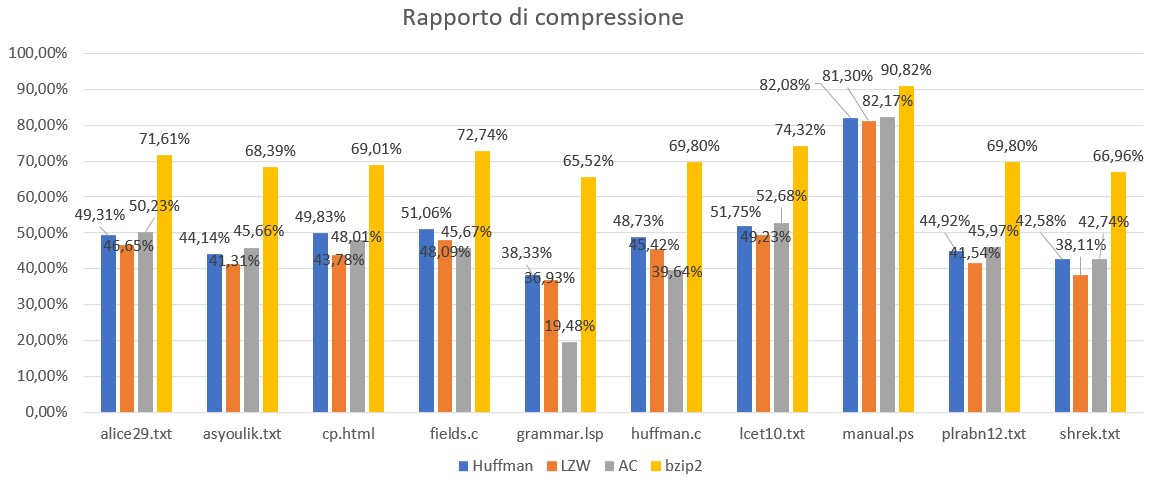
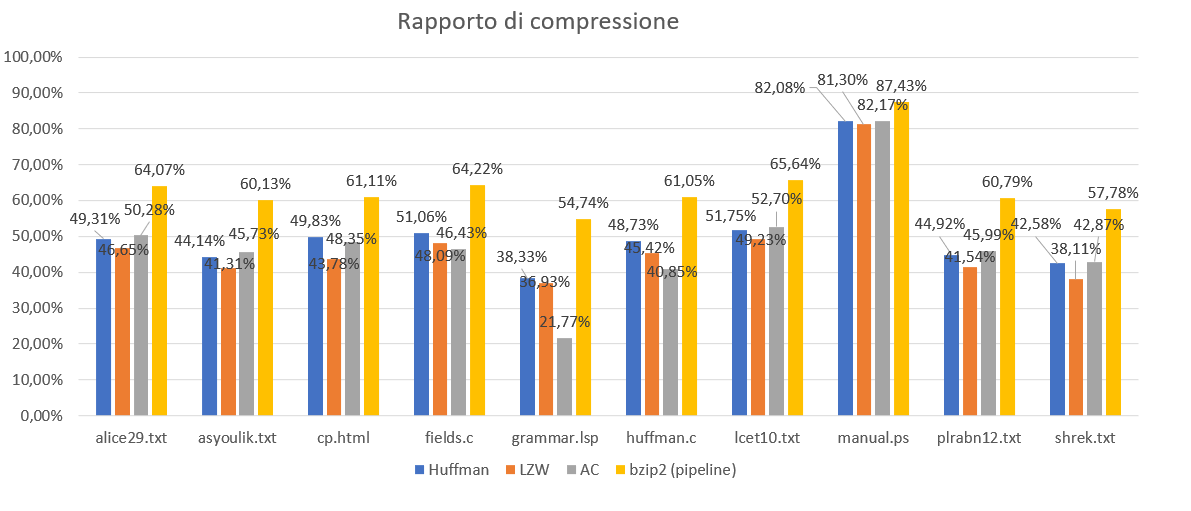
essay update

diff --git a/tesina/capitoli/testing.tex b/tesina/capitoli/testing.tex
@@ -17,9 +17,9 @@ Per svolgere la fase di testing dell'algoritmo implementato è stato utilizzato 
     \item Versione di Python installata: 3.8;
 \end{itemize}
 \section{Risultati}\label{section:risultati}
-La fase di testing condotta ha come scopo quello di verificare la bontà dell'algoritmo in termini computazionali (spazio e tempo) e di appurare che la decompressione vada a buon fine senza perdita di informazione, garantendo, dunque, che l'algoritmo di compressione implementato sia \emph{lossless}. Le tabelle \ref{tab:huffman}, \ref{tab:lzw} e \ref{tab:ac} indicano, per ogni file del \emph{Dataset}, la sua dimensione non compressa, la sua dimensione a seguito della compressione, il tempo impiegato per la compressione (corrisponde al tempo di esecuzione dello script \emph{compression.py} che implementa la \emph{pipeline} di compressione), il tempo impiegato per la decompressione (corrisponde al tempo di esecuzione dello script \emph{decompression.py} che implementa la \emph{pipeline} di decompressione) e il rapporto di compressione ottenuto. In particolare la prima tabella si riferisce alla \emph{pipeline} di compressione che utilizza \emph{Huffman} come algoritmo di \emph{variable length Prefix Code}, la seconda si riferisce alla \emph{pipeline} che fa uso di \emph{Lempel-Ziv-Welch} e la terza si riferisce alla \emph{pipeline} che fa uso di \emph{Arithmetic Coding}.\\ La \emph{pipeline} di testing è implementata dallo script \emph{testing.py} a cui vanno passati i parametri da linea di comando che indicano il nome del file di input e la chiave segreta da utilizzare.\\
-Come evidenziato dagli istogrammi \ref{fig:ist1}, \ref{fig:ist2} e \ref{fig:ist3}, non sono state riscontrate differenze evidenti tra l'utilizzo di \emph{Huffman} e quello di \emph{LZW}. Tendenzialmente \emph{Huffman} presenta tempi di esecuzione ed un rapporto di compressione leggermente migliori. Per quanto riguarda \emph{Arithmetic Coding}, è stato rilevato un lieve miglioramento in termini di rapporto di compressione a discapito di un tempo di esecuzione nettamente peggiore. 
-Dopo aver eseguito le fasi di compressione e decompressione, la \emph{pipeline} di testing si assicura che il processo sia avvenuto in maniera \emph{lossless}. Per fare ciò confronta il file di input con l'output della decompressione: se il contenuto di questi due differisce anche solo di un bit, comunicherà a video il fallimento della decompressione. Tale verifica ha restituito esito positivo su ognuno dei file del \emph{Dataset} utilizzato. Al fine di comprendere la bontà dell'algoritmo implementato è stata svolta un'attività di confronto con lo stato dell'arte della compressione mediante algoritmi basati sulla trasformata di \emph{Burrows-Wheeler}. In particolare il \emph{Dataset} utilizzato per testare l'algoritmo è stato sottoposto al compressore \textbf{bzip2} di cui è stata impiegata un'implementazione \emph{built-in} in \emph{Python} mediante la libreria \emph{bz2}. Dai confronti effettuati (di cui è disponibile un \emph{report} nella tabella \ref{tab:bzip2}) è emerso che \emph{bzip2} presenta un fattore di compressione circa del 50\% migliore rispetto a quello della \emph{pipeline} proposta ed un tempo di esecuzione decisamente più basso sia in fase di compressione che in fase di decompressione.
+La fase di testing condotta ha come scopo quello di verificare la bontà dell'algoritmo in termini computazionali (spazio e tempo) e di appurare che la decompressione vada a buon fine senza perdita di informazione, garantendo, dunque, che l'algoritmo di compressione implementato sia \emph{lossless}. Le tabelle \ref{tab:huffman}, \ref{tab:lzw}, \ref{tab:ac} e \ref{tab:bz2pipeline} indicano, per ogni file del \emph{Dataset}, la sua dimensione non compressa, la sua dimensione a seguito della compressione, il tempo impiegato per la compressione (corrisponde al tempo di esecuzione dello script \emph{compression.py} che implementa la \emph{pipeline} di compressione), il tempo impiegato per la decompressione (corrisponde al tempo di esecuzione dello script \emph{decompression.py} che implementa la \emph{pipeline} di decompressione) e il rapporto di compressione ottenuto. In particolare la prima tabella si riferisce alla \emph{pipeline} di compressione che utilizza \emph{Huffman} come algoritmo di \emph{variable length Prefix Code}, la seconda si riferisce alla \emph{pipeline} che fa uso di \emph{Lempel-Ziv-Welch}, la terza si riferisce alla \emph{pipeline} che fa uso di \emph{Arithmetic Coding} mentre la quarta si riferisce alla \emph{pipeline} che utilizza \emph{bzip2} nel suo passo finale.\\ La \emph{pipeline} di testing è implementata dallo script \emph{testing.py} a cui vanno passati i parametri da linea di comando che indicano il nome del file di input e la chiave segreta da utilizzare.\\
+Come evidenziato dagli istogrammi \ref{fig:ist1}, \ref{fig:ist2} e \ref{fig:ist3}, non sono state riscontrate differenze evidenti tra l'utilizzo di \emph{Huffman} e quello di \emph{LZW}. Tendenzialmente \emph{Huffman} presenta tempi di esecuzione ed un rapporto di compressione leggermente migliori. Per quanto riguarda \emph{Arithmetic Coding}, è stato rilevato un lieve miglioramento in termini di rapporto di compressione a discapito di un tempo di esecuzione nettamente peggiore. La \emph{pipeline} che indubbiamente si comporta meglio è quella che utilizza \emph{bzip2} raggiungendo un rapporto di compressione più elevato rispetto a quello ottenuto con i precedenti algoritmi.
+Dopo aver eseguito le fasi di compressione e decompressione, la \emph{pipeline} di testing si assicura che il processo sia avvenuto in maniera \emph{lossless}. Per fare ciò confronta il file di input con l'output della decompressione: se il contenuto di questi due differisce anche solo di un bit, comunicherà a video il fallimento della decompressione. Tale verifica ha restituito esito positivo su ognuno dei file del \emph{Dataset} utilizzato. Al fine di comprendere la bontà dell'algoritmo implementato è stata svolta un'attività di confronto con lo stato dell'arte della compressione mediante algoritmi basati sulla trasformata di \emph{Burrows-Wheeler}. In particolare il \emph{Dataset} utilizzato per testare l'algoritmo è stato sottoposto al compressore \textbf{bzip2} di cui è stata impiegata un'implementazione \emph{built-in} in \emph{Python} mediante la libreria \emph{bz2}. Dai confronti effettuati (di cui è disponibile un \emph{report} nella tabella \ref{tab:bzip2}) è emerso che \emph{bzip2} nella sua versione \emph{standalone} presenta un fattore di compressione leggermente migliore rispetto a quello della \emph{pipeline} proposta ed un tempo di esecuzione decisamente più basso sia in fase di compressione che in fase di decompressione.
 %Huffman
 %\begin{center}
     \begin{table}
@@ -116,6 +116,39 @@ Dopo aver eseguito le fasi di compressione e decompressione, la \emph{pipeline} 
      \hline
     \end{tabular} 
     \caption{Risultati ottenuti con Arithmetic Coding\label{tab:ac}}
+    \end{table}
+
+%Bzip2-pipeline
+%\begin{center}
+    \begin{table}
+    \begin{tabular}{||c c c c c c||} 
+     \hline
+     Input & Size non compr. & Size compr. & Tempo compr. & Tempo decompr. & \% \\ [0.5ex] 
+     \hline\hline
+     alice29.txt & 152.062 byte & 54.637 byte & 5.48 s & 0.38 s & 64.07\\ [1ex]
+     \hline
+     asyoulik.txt & 125.179 byte & 49.910 byte & 4.16 s & 0.39 s & 60.13\\ [1ex] 
+     \hline
+     cp.html & 24.603 byte & 9.568 byte & 0.16 s & 0.03 s & 61.11\\ [1ex] 
+     \hline
+     fields.c & 11.150 byte & 3.989 byte & 0.17 s & 0.04 s & 64.22\\ [1ex]
+     \hline
+     grammar.lsp & 3.721 byte & 1.684 byte & 0.05 s & 0.02 s & 54.74\\ [1ex] 
+     \hline
+     huffman.c & 6.986 byte & 2.721 byte & 0.05 s & 0.018 s & 61.05\\ [1ex]
+     \hline
+     lcet10.txt & 419.235 byte & 144.068 byte & 9.60 s & 0.78 s & 65.64\\ [1ex] 
+     \hline
+     manual.ps & 1.766.625 byte & 222.055 byte & 15.71 s & 1.76 s & 87.43\\ 
+ [1ex]
+     \hline
+     plrabn12.txt & 481.861 byte & 188.980 byte & 10.19 s & 0.89 s & 60.79\\ [1ex] 
+     \hline
+     shrek.txt & 70.658 byte & 29.835 byte & 0.89 s & 0.11 s & 57.78\\ [1ex]
+
+     \hline
+    \end{tabular} 
+    \caption{Risultati ottenuti con bzip2 nella pipeline\label{tab:bz2pipeline}}
     \end{table}
 
 %BZIP2

diff --git a/tesina/capitoli/implementazione.tex b/tesina/capitoli/implementazione.tex
@@ -64,6 +64,6 @@ Il layer di sicurezza implementato nella \emph{bMTF} consiste, in primo luogo, n
 \section{Implementazione della RLE} 
 Dal punto di vista implementativo, non sono state apportate modifiche rilevanti alla \emph{RLE} rispetto alla descrizione illustrata nel paragrafo \ref{section:rle}. L'algoritmo è implementato dallo \emph{script rle.py} situato nel \emph{package rle}. 
 \section{Scelta dell'algoritmo di PC} 
-L'ultimo componente della \emph{pipeline} implementata è l'algoritmo di \emph{variable length Prefix Code}. La scelta dell'algoritmo di \emph{PC} da utilizzare influisce sui tempi di esecuzione e sul rapporto di compressione complessivi. Gli algoritmi di \emph{PC} impiegati nella \emph{pipeline} non sono stati sviluppati da zero ma sono state utilizzate implementazioni in \emph{Python} preesistenti. La scelta dell'algoritmo di \emph{PC} da utilizzare è stata effettuata in maniera empirica in base alle prestazioni riscontrate confrontando tempi di compressione, decompressione e rapporto di compressione; una trattazione approfondita sui risultati ottenuti dal confronto di tali algoritmi è affrontata nel paragrafo \ref{section:risultati}. Lo script \emph{pc.py} situato nel \emph{package pc} implementa gli algoritmi di \emph{PC} utilizzati consentendo, mediante l'utilizzo di un parametro input, di scegliere il compressore desiderato. Nello specifico, gli algoritmi in questione sono: \emph{Huffman Coding}, \emph{Arithmetic Coding} e \emph{Lempel-Ziv-Welch Coding}.
+L'ultimo componente della \emph{pipeline} implementata è l'algoritmo di \emph{variable length Prefix Code}. La scelta dell'algoritmo di \emph{PC} da utilizzare influisce sui tempi di esecuzione e sul rapporto di compressione complessivi. Gli algoritmi di \emph{PC} impiegati nella \emph{pipeline} non sono stati sviluppati da zero ma sono state utilizzate implementazioni in \emph{Python} preesistenti. La scelta dell'algoritmo di \emph{PC} da utilizzare è stata effettuata in maniera empirica in base alle prestazioni riscontrate confrontando tempi di compressione, decompressione e rapporto di compressione; una trattazione approfondita sui risultati ottenuti dal confronto di tali algoritmi è affrontata nel paragrafo \ref{section:risultati}. Lo script \emph{pc.py} situato nel \emph{package pc} implementa gli algoritmi di \emph{PC} utilizzati consentendo, mediante l'utilizzo di un parametro input, di scegliere il compressore desiderato. Nello specifico, gli algoritmi in questione sono: \emph{Huffman Coding}, \emph{Arithmetic Coding}, \emph{Lempel-Ziv-Welch Coding} e \emph{bzip2} (gli ultimi due algoritmi non sono propriamente di \emph{Prefix Code} ma sono stati impiegati al fine di migliorare il rapporto di compressione della \emph{pipeline} proposta).
 \section{Implementazione della pipeline}
 Nell'ambito dell'implementazione effettuata, gli algoritmi descritti fino a questo momento sono "orchestrati" da un modulo che funge da compressore (reperibile nel \emph{main package src} sotto il nome \emph{compression.py}) e da un modulo che funge da decompressore (reperibile nel \emph{main package src} sotto il nome \emph{decompression.py}). I due moduli vengono, a loro volta, invocati dallo script \emph{tester.py} che si occupa di simulare un \emph{workflow} completo di compressione e decompressione prendendo in input da riga di comando il nome del file da comprimere e la chiave segreta da usare durante la \emph{sBWT} e la \emph{bMTF}. Durante un'esecuzione completa dell'algoritmo di compressione vengono generati diversi file, tuttavia solo una parte di essi va conservata per poter effettuare la decompressione. In particolare i file da conservare sono i seguenti: \emph{outputDictBWT.txt}, \emph{outputPC.txt}, \emph{rfile.txt} e \emph{outputPCCodec.txt} (nel caso in cui viene utilizzato \emph{Huffman}) o \emph{outputDictLZW.txt} (nel caso in cui viene utilizzato \emph{LZW}). D'altro canto, l'algoritmo di decompressione produce un unico file denominato \emph{decompressed.txt} che risulta essere identico al file di input. Dopo l'esecuzione completa della \emph{pipeline}, lo script \emph{tester.py} si occupa di verificare che il file di input sia identico all'output della decompressione.
